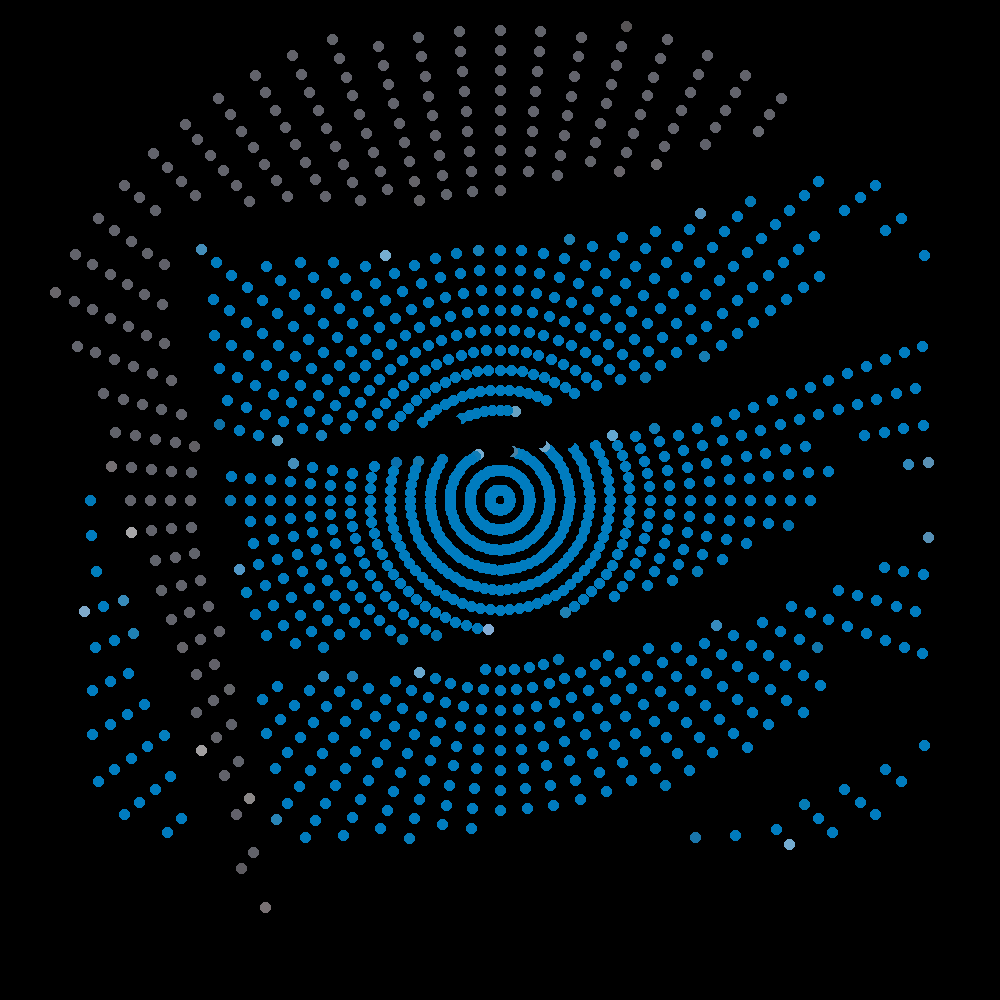
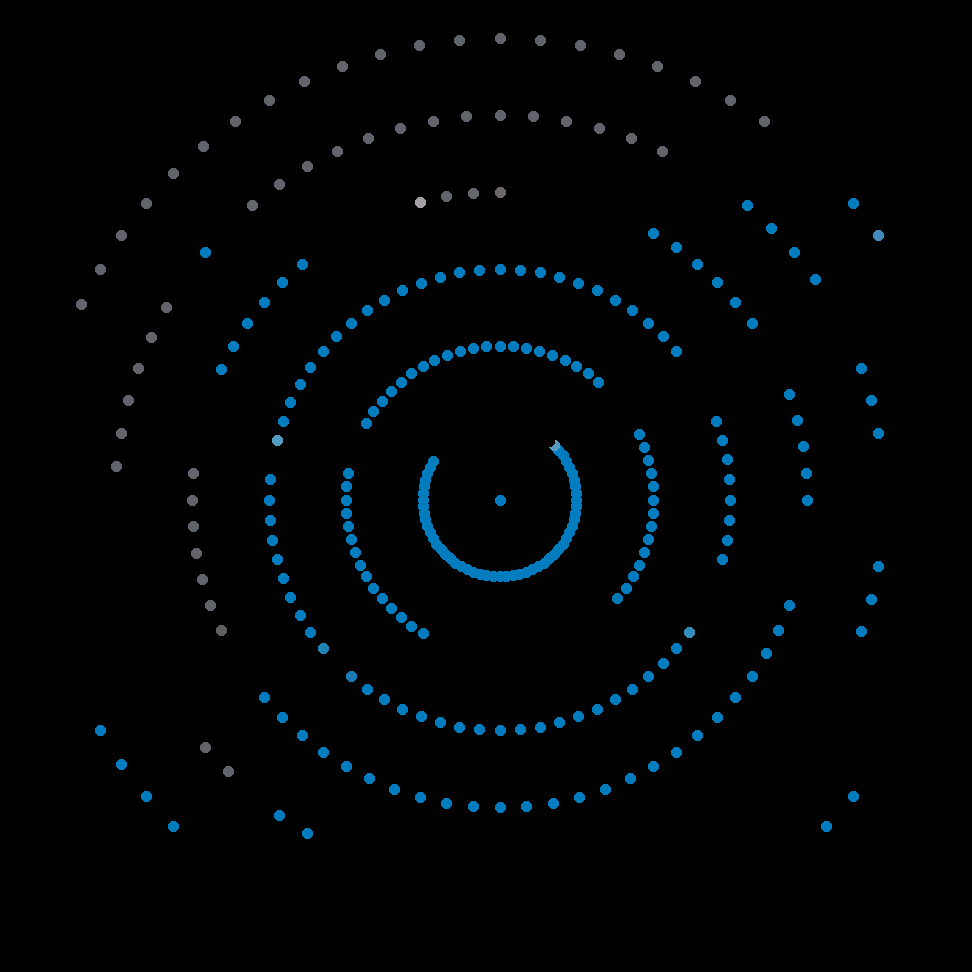
optimisation ajout point central une seule fois

diff --git a/POVSimulator/colorpicker.py b/POVSimulator/colorpicker.py
@@ -10,8 +10,8 @@ def renderPickedPointsPreview(filename, pickedColorPoints, ellipsesDiameter):
       pickedColorPoints (array): The list of picked point colors
       ellipsesDiameter ([type]): The diameter of each ellipse representing a picked color point
   """
-  maxSizingColorPoint = max(pickedColorPoints, key=(lambda x:max(x[0:1])))
-  size = max(maxSizingColorPoint[0:1])
+  maxSizingColorPoint = max(pickedColorPoints, key=(lambda x:max(x[0][1])))
+  size = max(maxSizingColorPoint[0][1])
   size+=ellipsesDiameter
   size = ceil(size)
   outputImg = Image.new('RGB', (size, )*2, (0, 0, 0))
@@ -19,11 +19,11 @@ def renderPickedPointsPreview(filename, pickedColorPoints, ellipsesDiameter):
   draw.rectangle([(0, 0), (size, )*2], 'black')
   for pickedColorPoint in pickedColorPoints:
     upperLeftCornerCoordinates = (
-        pickedColorPoint[0]-ellipsesDiameter/2, pickedColorPoint[1]-ellipsesDiameter/2)
+        pickedColorPoint[0][1][0]-ellipsesDiameter/2, pickedColorPoint[0][1][1]-ellipsesDiameter/2)
     bottomRightCornerCoordinates = (
         upperLeftCornerCoordinates[0]+ellipsesDiameter, upperLeftCornerCoordinates[1]+ellipsesDiameter)
     draw.ellipse([upperLeftCornerCoordinates,
-                  bottomRightCornerCoordinates], fill=pickedColorPoint[2])
+                  bottomRightCornerCoordinates], fill=pickedColorPoint[1])
   outputImg.save(filename)
 
 def pickColors(pickingPoints, subjectImage):
@@ -34,12 +34,12 @@ def pickColors(pickingPoints, subjectImage):
       subjectImage (PIL.Image): The image where colors must be picked
 
   Returns:
-      Array: List of picked colors in the form (x,y,(r,g,b))
+      Array: List of picked colors in the form (((theta,rIndex),(x,y)),(r,g,b)))
   """
   pickedColorPoints = []
   for pickingPoint in pickingPoints:
-    pixel = subjectImage.getpixel(pickingPoint)
-    pickedColorPoints.append((pickingPoint[0], pickingPoint[1],pixel))
+    pixel = subjectImage.getpixel(pickingPoint[1])
+    pickedColorPoints.append((pickingPoint,pixel))
   return pickedColorPoints
 
 def computePickingPointsPositionsOnDiametralLine(pickingAreaDiameter, nbPoints, angle):
@@ -54,20 +54,20 @@ def computePickingPointsPositionsOnDiametralLine(pickingAreaDiameter, nbPoints, 
       array: Array of (x,y) tuples containing holes center positions
   """
   spaceBetweenPoints = pickingAreaDiameter / nbPoints
-  radialCoordinates = [] #contains radial coordinate of holes starting from the center of mask
-  if(nbPoints%2): # number of holes is odd, so we place the first hole to be concentric with the main disk
+  radialCoordinates = []
+  if(nbPoints%2): # number of points is odd, so we place the first one on the center
     radialOrigin = 0
     nbPoints-=1
   else:
     radialOrigin = spaceBetweenPoints/2
     nbPoints-=2
-  radialCoordinates.append(radialOrigin)
+    radialCoordinates.append(radialOrigin)
   for i in range(0,nbPoints//2):
     radialCoordinates.append(radialOrigin+(i+1)*spaceBetweenPoints)
   pointsPositions = []
-  for radial in radialCoordinates:
-    pointsPositions.append((pickingAreaDiameter/2+radial*sin(angle), pickingAreaDiameter/2+radial*cos(angle)))
-    pointsPositions.append((pickingAreaDiameter/2-radial*sin(angle), pickingAreaDiameter/2-radial*cos(angle)))
+  for radialIndex, radial in enumerate(radialCoordinates):
+    pointsPositions.append(((angle, radialIndex),(pickingAreaDiameter/2+radial*sin(angle), pickingAreaDiameter/2+radial*cos(angle))))
+    pointsPositions.append(((angle, -radialIndex),(pickingAreaDiameter/2-radial*sin(angle), pickingAreaDiameter/2-radial*cos(angle))))
   return pointsPositions
 
 def getPickingPoints(pickingAreaDiameter, nbPointsPerLine, angleStep, angleMin = 0, angleMax = 180):
@@ -86,12 +86,13 @@ def getPickingPoints(pickingAreaDiameter, nbPointsPerLine, angleStep, angleMin =
   points = []
   for i in range (angleMin,angleMax,angleStep):
     angle_rad = pi/180.0 * i
-    #TODO: ajouter les coordonnées polaires en passant i à la fonction computePickingPointsPositionsOnLine
     points += computePickingPointsPositionsOnDiametralLine(pickingAreaDiameter, nbPointsPerLine, angle_rad)
+  if(nbPointsPerLine%2): #if the number of points per line is odd then we add the center point once
+    points.append(((0,0),(pickingAreaDiameter//2,)*2))
   return points
 
 # Configuration variables
-nbEllipsesPerDiametralLine = 50
+nbEllipsesPerDiametralLine = 13
 imageFileName = 'logo_utbm_detoure.png'
 outputFileName = 'result_picking.png'
 angleStep = 5
@@ -100,15 +101,14 @@ zoomFactor = 100 #zoom factor in percent
 if __name__ == "__main__":
   sourceImg = Image.open(imageFileName)
   sourceImg.convert('RGBA')
-  print(sourceImg.mode)
   imgMaxSize = max(sourceImg.size)
   baseImgSize = imgMaxSize*100//zoomFactor
   centeredImage = Image.new('RGB', (baseImgSize,)*2,'black')
   
-  #TODO: center image and dezoom
   centeredImage.paste(sourceImg,((baseImgSize-sourceImg.size[0])//2,(baseImgSize-sourceImg.size[1])//2), mask=sourceImg)
   centeredImage.save('TEST.png')
 
   pickingPoints = getPickingPoints(baseImgSize, nbEllipsesPerDiametralLine, angleStep)
   pickedColors = pickColors(pickingPoints, centeredImage)
+  print(pickedColors)
   renderPickedPointsPreview(outputFileName, pickedColors, 10)
